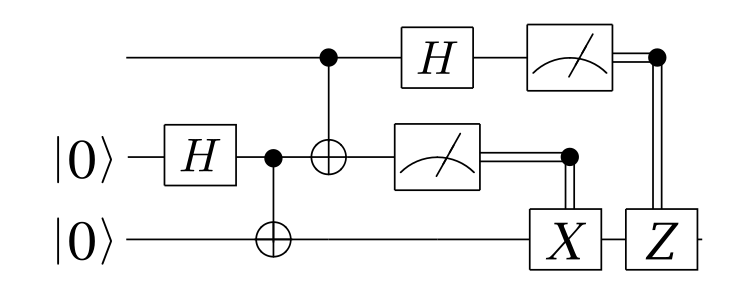
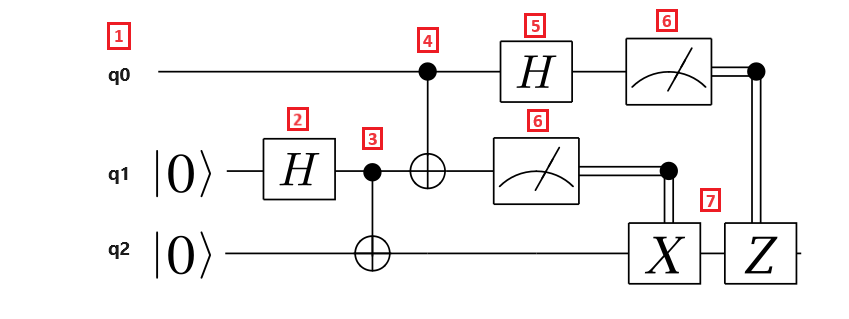
Clarifying teleportation protocol

Changed region(s): [[0.092, 0.0295, 0.9507, 0.9148], [0.1227, 0.059, 0.1533, 0.177], [0.1227, 0.2066, 0.1533, 0.2656]]

diff --git a/articles/concepts-circuits.md b/articles/concepts-circuits.md
@@ -134,17 +134,17 @@ The following circuit diagram illustrates the teleportation protocol:
 
 Let's break down the steps of the teleportation protocol:
 
-1. Qubit register labeled 0 is the message qubit, qubit register labeled 1 is Alice's qubit, and qubit register labeled 2 is Bob's qubit. The message qubit is in an unknown state, and Alice and Bob's qubits are in the $\ket{0}$ state.
-1. A Hadamard gate $H$ is applied to Alice's qubit. Because the qubit is in the $\ket{0}$ state, the resulting state is $\frac{1}{\sqrt{2}}(\ket{0} + \ket{1})$.
-1. A CNOT gate is applied to Alice and Bob's qubits. Alice's qubit is the control qubit, and Bob's qubit is the target qubit. The resulting state is $\frac{1}{\sqrt{2}}(\ket{00} + \ket{11})$. Alice and Bob now share an entangled state.
-1. A CNOT gate is applied to the message qubit and Alice's qubit.  Since Alice's qubit is also entangled with Bob's qubit, the resulting state is a three-qubit entangled state.
-1. A Hadamard gate $H$ is applied to the message qubit.
-1. Alice measures her two qubits and communicates the measurement results to Bob - this isn't reflected in the circuit. The measurement results are two classical bits, which can take the values 00, 01, 10, or 1
-1. Two classically controlled Pauli gates are applied to Bob's qubit, depending on the result bit being value $1$. The resulting state is the original message qubit state.
+1. Qubit register **q0** is the message qubit, qubit register **q1** is Alice's qubit, and qubit register **q2** is Bob's qubit. The message qubit is in an unknown state, and Alice and Bob's qubits are in the $\ket{0}$ state.
+1. A **Hadamard gate** is applied to **Alice's qubit**. Because the qubit is in the $\ket{0}$ state, the resulting state is $\frac{1}{\sqrt{2}}(\ket{0} + \ket{1})$.
+1. A **CNOT gate** is applied to **Alice and Bob's qubits**. Alice's qubit is the control qubit, and Bob's qubit is the target qubit. The resulting state is $\frac{1}{\sqrt{2}}(\ket{00} + \ket{11})$. Alice and Bob now share an entangled state.
+1. A **CNOT gate** is applied to the **message qubit and Alice's qubit**. Since Alice's qubit is also entangled with Bob's qubit, the resulting state is a three-qubit entangled state.
+1. A **Hadamard gate** is applied to the **message qubit**.
+1. Alice **measures** her two qubits and tells the measurement results to Bob, which isn't reflected in the circuit. The measurement results are two classical bits, which can take the values 00, 01, 10, or 1
+1. Two classically controlled **Pauli gates** X and Z are applied to **Bob's qubit**, depending on the result bit being value $1$. The resulting state is the original message qubit state.
 
 ## Related content
 
-- [Quantum oracles](xref:microsoft.quantum.concepts.oracles)
+- [Quantum entanglement](xref:microsoft.quantum.concepts.entanglement)
 - [Grover's algorithm](xref:microsoft.quantum.concepts.grovers)
 - [Quantum Intermediate Representation](xref:microsoft.quantum.concepts.qir)
 - [Vectors and matrices](xref:microsoft.quantum.concepts.vectors)
